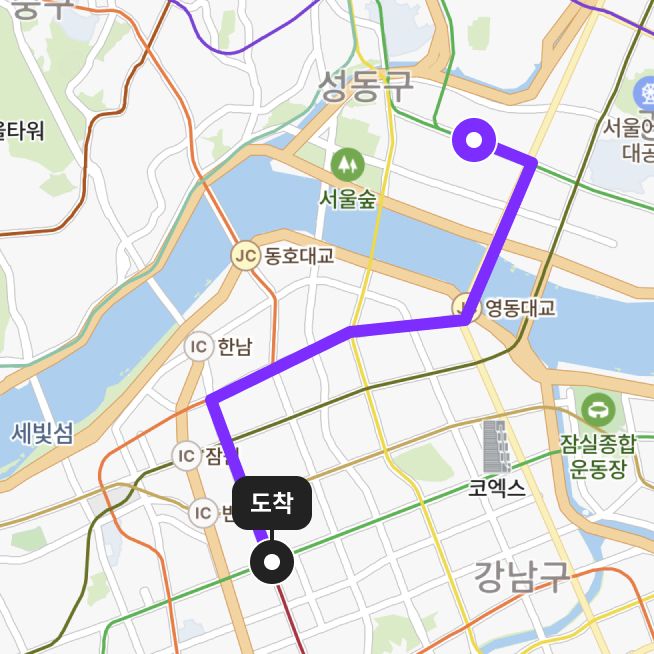
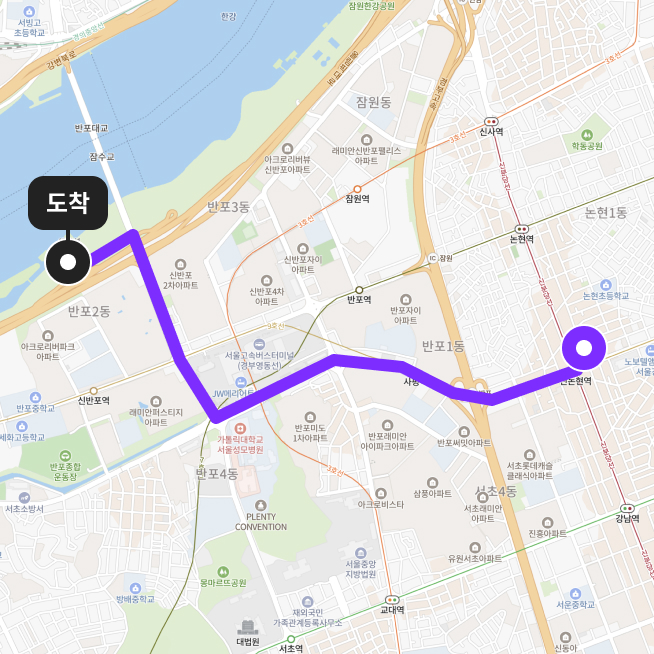
Add files via upload

diff --git a/index.html b/index.html
@@ -4,12 +4,12 @@
   <meta charset="UTF-8">
   <meta http-equiv="X-UA-Compatible" content="IE=edge">
   <meta name="viewport" content="width=device-width, initial-scale=1.0">
-  <meta name="description" content="재미있는 승차 공유 플랫폼, 풀러팅.">
+  <meta name="description" content="재미있는 승차 공유 플랫폼, 풀러팅. 일정 공유">
   <meta property="og:type" content="website">
   <meta property="og:url" content="https://www.poolirting.com/">
   <meta property="og:title" content="POOLIRTING">
   <meta property="og:image" content="og_img.jpg">
-  <meta property="og:description" content="재미있는 승차 공유 플랫폼, 풀러팅.">
+  <meta property="og:description" content="재미있는 승차 공유 플랫폼, 풀러팅. 일정 공유">
   <meta property="og:site_name" content="같이 가자. 풀러팅">
   <meta name="naver-site-verification" content="5583dcc6461d7474472f2eb6ec9ae759991c7fc2" />
   <link rel="apple-touch-icon" sizes="57x57" href="img/favi/apple-icon-57x57.png">
@@ -34,7 +34,7 @@
   <link href="https://fonts.googleapis.com/css2?family=Noto+Sans+KR:wght@400;500;700&display=swap" rel="stylesheet">
   <link rel="stylesheet" href="css/reset.css">
   <link rel="stylesheet" href="css/index.css">
-  <title>같이 가자. 풀러팅</title>
+  <title>같이 가자. 풀러팅 일정 공유</title>
 </head>
 <body>
   <div class="root">
@@ -44,7 +44,7 @@
       </div>
       <div class="main-content-wrap">
         <section><div class="route"><img src="img/route_23423423.jpg" alt=""></div></section>
-        <section><h2>주변 패신저를 찾는 중입니다.<br>앱에서 신청 할 수 있습니다.</h2></section>
+        <section><h2>같이 드라이브 갈 분이 기다리고있어요!<br>일정을 확인해보세요.</h2></section>
         <section><div class="info-content-wrap">
           <div class="info-content">
             <ul class="info-schedule driver">
@@ -52,18 +52,18 @@
               <li class="start">
                 <img class="icon-img" src="img/icon_24_start_driver.png" alt="">
                 <div class="info-driver">
-                  <span>강남역 2호선</span>
+                  <span>신논현역 9호선</span>
                   <p>랜드로버 디스커버리5</p>
                 </div>
               </li>
-              <li class="goal"><img class="icon-img" src="img/icon_24_goal.png" alt=""><span>하조대</span></li>
+              <li class="goal"><img class="icon-img" src="img/icon_24_goal.png" alt=""><span>반포한강공원</span></li>
               <li class="start-time"><img class="icon-img" src="img/icon_24_time.png" alt=""><span>출발 시간은 같이 정해요</span></li>
             </ul>
             <div class="profile"><img src="img/0620081b-8e85-4f74-95f0-af22ced1318b-20230227110202.jpg" alt=""></div>
           </div>
-          <div class="info-desc"><img class="icon-img" src="img/icon_24_memo.png" alt=""><span>양양 서핑 같이가요. 2명 탑승가능</span></div>
+          <div class="info-desc"><img class="icon-img" src="img/icon_24_memo.png" alt=""><span>한강 드라이브 같이가요 6시 이후가능</span></div>
         </div></section>
-        <a class="app-button" href="https://poolirting.page.link/CTck">앱에서 일정 확인하기</a>
+        <a class="app-button" href="https://poolirting.page.link/CTck" target="_blank">일정 확인하고 무료 시트 받기</a>
       </div>
     </main>
   </div>

diff --git a/css/index.css b/css/index.css
@@ -19,7 +19,6 @@ html{
 }
 
 .route{
-  margin-top: 8px;
   border-radius: 24px;
   overflow: hidden;
 }
@@ -76,12 +75,13 @@ h2{
 
 .profile{
   width: 56px;
-  height: 75px;
   border-radius: 8px;
   background: #000;
+  overflow: hidden;
 }
 .profile img{
   width: 100%;
+  vertical-align: bottom;
   opacity: 0.4;
 }
 
